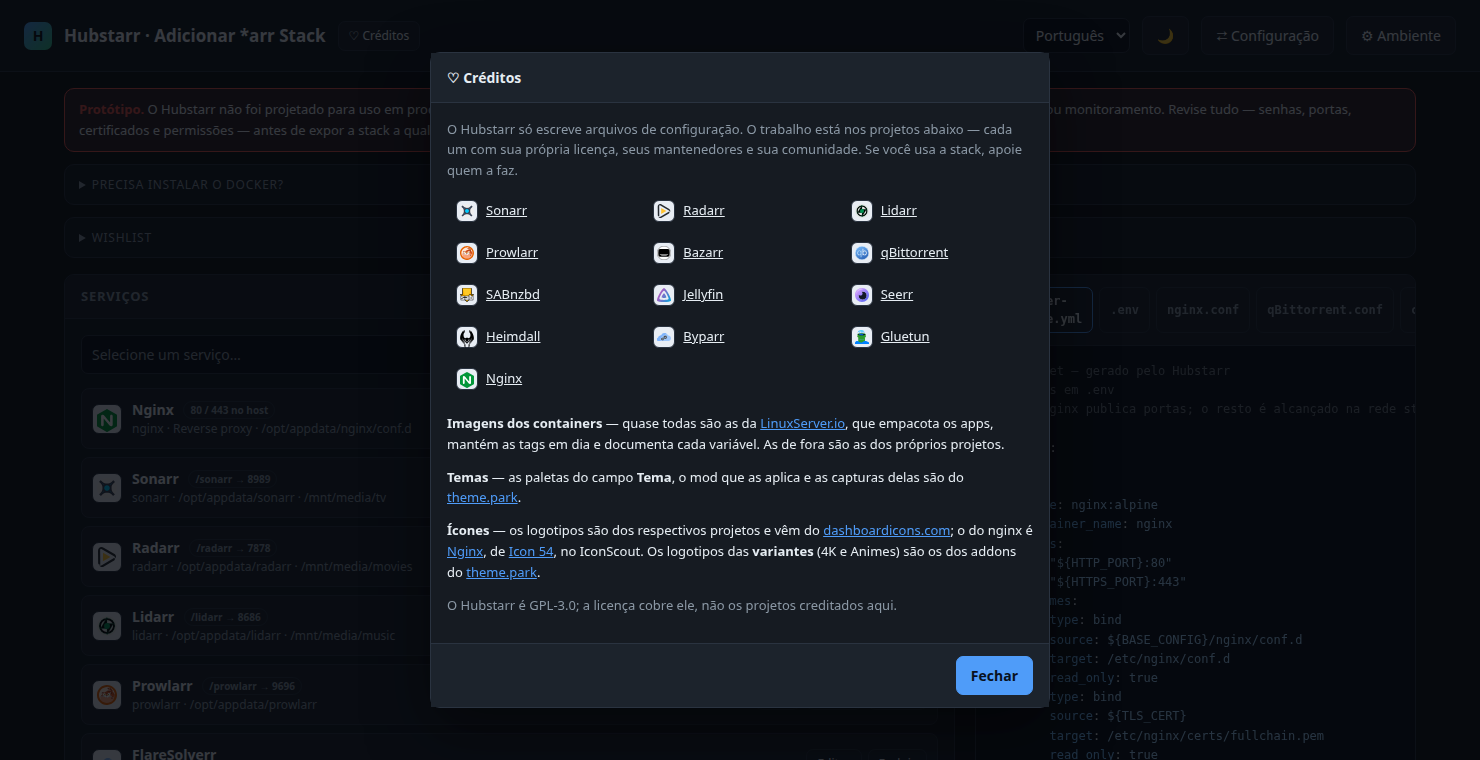
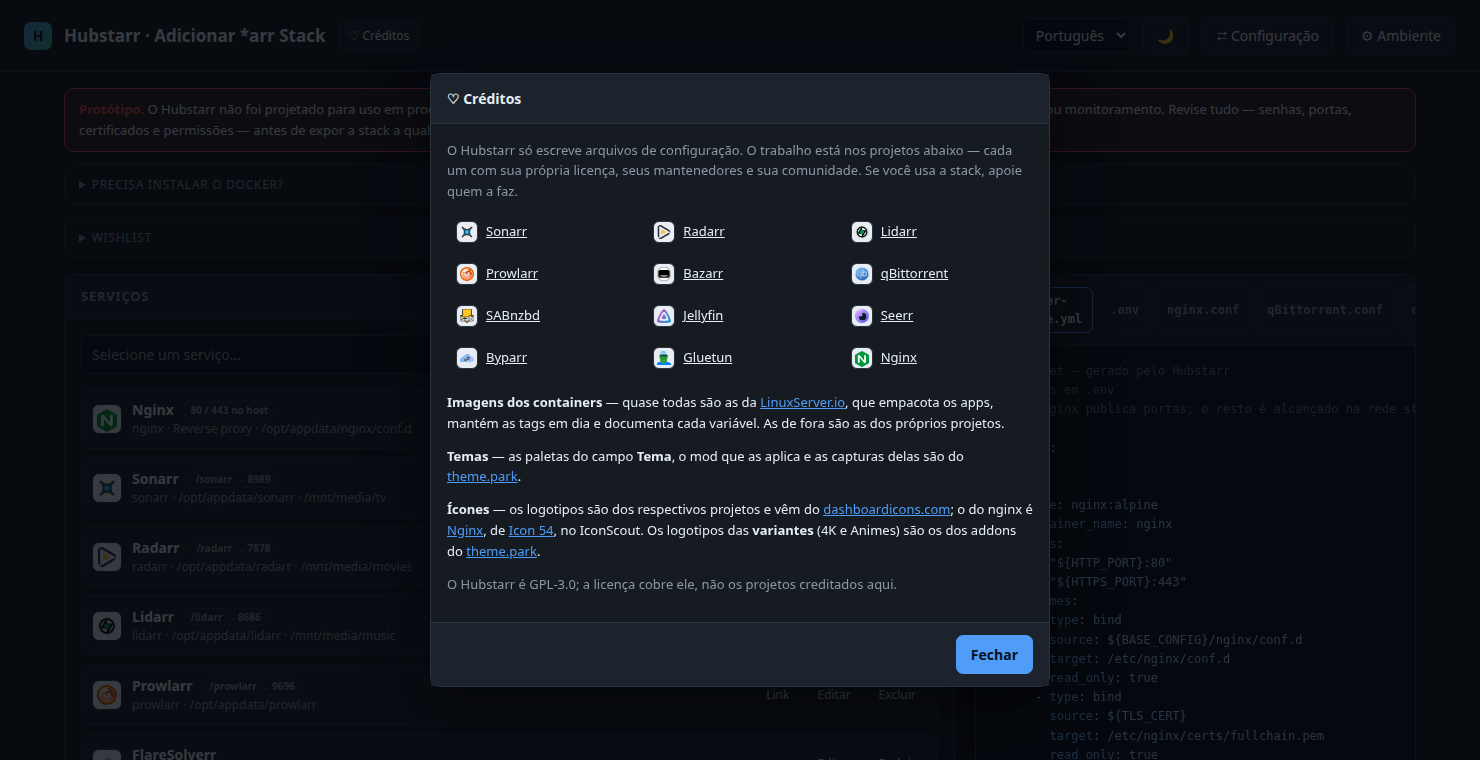
Tira o Heimdall do catálogo
Com ele sai a maquinaria de serviço fixo — ROOT_SERVICE, a flag fixed, o
ensureFixed() e o noLink —, que existia só para ele: era o único a nascer
na stack sozinho e a ser servido na raiz.

A stack passa a não ter nada em `location /`: entra-se pelo subpath de
cada app. O nginx continua fixo, que é outra coisa — ele é o proxy.

Claude-Session: https://claude.ai/code/session_01Eb871Fqsz7GGPfnUDp8g5m

Changed region(s): [[0.2797, 0.0605, 0.7149, 0.8171], [0.2797, 0.8171, 0.7149, 0.9382]]

diff --git a/hubstarr.html b/hubstarr.html
@@ -929,7 +929,6 @@ const I18N = {
   'd.sabnzbd':'Cliente Usenet',
   'd.jellyfin':'Media server',
   'd.seerr':'Pedidos de mídia',
-  'd.heimdall':'Painel de atalhos',
   'd.flaresolverr':'Bypass Cloudflare',
   'd.gluetun':'Cliente VPN',
 },
@@ -1251,7 +1250,6 @@ const I18N = {
   'd.sabnzbd':'Usenet client',
   'd.jellyfin':'Media server',
   'd.seerr':'Media requests',
-  'd.heimdall':'Application dashboard',
   'd.flaresolverr':'Cloudflare bypass',
   'd.gluetun':'VPN client',
 },
@@ -1573,7 +1571,6 @@ const I18N = {
   'd.sabnzbd':'Cliente Usenet',
   'd.jellyfin':'Servidor multimedia',
   'd.seerr':'Peticiones de contenido',
-  'd.heimdall':'Panel de accesos',
   'd.flaresolverr':'Bypass de Cloudflare',
   'd.gluetun':'Cliente VPN',
 },
@@ -1632,7 +1629,6 @@ const SERVICES = [
   {id:'jellyfin', name:'Jellyfin',  port:8096, img:'lscr.io/linuxserver/jellyfin:latest',  color:'#7b68ee', media:true, mdir:'', hw:true, library:true, tp:true,
    conf:[{host:'config/config/network.xml', target:'/config/config/network.xml', pane:'#outJf', tab:'jf'}], site:'https://jellyfin.org'},
   {id:'seerr',    name:'Seerr',     port:5055, img:'ghcr.io/seerr-team/seerr:latest',      color:'#6d5ef5', subpathFix:true, site:'https://github.com/seerr-team/seerr'},
-  {id:'heimdall', name:'Heimdall',  port:80,   img:'lscr.io/linuxserver/heimdall:latest', color:'#d64b3f', fixed:true, noLink:true, tp:true, site:'https://heimdall.site'},
   {id:'flaresolverr',name:'FlareSolverr',port:8191,img:'ghcr.io/thephaseless/byparr:latest',color:'#ff7f50',noVol:true, internal:true, site:'https://github.com/ThePhaseless/Byparr', credit:'Byparr'},
   {id:'gluetun',  name:'Gluetun',   port:8000, img:'qmcgaw/gluetun:latest',                color:'#8b98a5', noVol:true, internal:true, vpnCfg:true, site:'https://github.com/qdm12/gluetun'},
 ];
@@ -1717,7 +1713,6 @@ const randKey = ()=> Array.from(crypto.getRandomValues(new Uint8Array(16)))
   .map(b=>b.toString(16).padStart(2,'0')).join('');
 
 // serviço que atende na raiz do proxy, em vez de um subpath próprio
-const ROOT_SERVICE = 'heimdall';
 
 const URLBASE_ENV = {sonarr:'SONARR__SERVER__URLBASE', radarr:'RADARR__SERVER__URLBASE',
                      lidarr:'LIDARR__SERVER__URLBASE', prowlarr:'PROWLARR__SERVER__URLBASE'};
@@ -1736,7 +1731,6 @@ const ICONS = {
[6 lines of base64/hex data omitted]
   /* Variantes do tema: o logotipo que cada addon do theme.park põe no app,
@@ -1829,13 +1823,6 @@ let added = [];
 
 /* Serviço fixo entra sozinho e não sai: o painel de atalhos é a porta da
    stack, como o nginx é a entrada dela. Fora do combobox e sem "Excluir". */
-const isFixed = id => !!svc(id).fixed;
-function ensureFixed(){
-  SERVICES.filter(s=>s.fixed).forEach(s=>{
-    // entra sozinho, então é aqui que ele ganha a linha dele no banco
-    if(!has(s.id)){ const a = defCfg(s.id); added.unshift(a); putInstance(a); }
-  });
-}
 let picked = null;   // id selecionado no combobox
 let editing = null;  // key da instância em edição (null = adicionando)
 let autoData = '';   // subpasta que o modal sugeriu sozinho, enquanto ninguém a editou
@@ -1850,7 +1837,7 @@ const slug = t => (t||'').normalize('NFD').replace(/[\u0300-\u036f]/g,'')
   .replace(/^-+|-+$/g,'');
 const cname = a => slug(a.title) || a.id;   // container_name / service key / pasta
 // caminho no nginx: subpath próprio, ou a raiz para o painel de atalhos
-const route = a => a.id===ROOT_SERVICE ? '/' : '/'+cname(a);
+const route = a => '/'+cname(a);
 // endereço pelo qual o serviço vai ser acessado, passando pelo proxy;
 // a porta só aparece quando não é a padrão do esquema
 const hostPort = ()=> DEFAULTS.tls ? DEFAULTS.https : DEFAULTS.http;
@@ -1946,7 +1933,7 @@ const defCfg = id => ({id, title:svc(id).name, hw:'cpu', tpv:'std', tpt:TP_THEME
 
 /* ---------- combobox ---------- */
 function renderCombo(){
-  $('#comboList').innerHTML = SERVICES.filter(s=>!s.fixed).map(s=>`
+  $('#comboList').innerHTML = SERVICES.map(s=>`
     <div class="opt ${locked(s.id)?'dis':''}" data-id="${s.id}">
       ${icoHtml(s,'sm')}
       <span><span class="nm">${s.name}</span> <span class="ds">${sdesc(s.id)}</span></span>
@@ -2062,15 +2049,14 @@ function renderItems(){
         <div class="ds">${cname(a)}${(a.title && a.title!==s.name)?' ('+s.name+')':''}${s.noVol?' · '+sdesc(s.id):' · '+cfgReal(a)}${s.media&&!s.noVol?' · '+dataReal(a):''}</div>
       </div>
       <div class="acts">
-        ${(s.internal || s.noLink) ? '' : `<a class="btn${linkOn(cname(a))?'':' off'}"
+        ${s.internal ? '' : `<a class="btn${linkOn(cname(a))?'':' off'}"
           ${linkOn(cname(a))?`href="${attr(url(a))}"`:'aria-disabled="true"'}
           data-link="${attr(cname(a))}" data-url="${attr(url(a))}"
           target="_blank" rel="noopener noreferrer"
           title="${attr(linkOn(cname(a)) ? t('btn.linkTitle', url(a)) : t('btn.linkOff'))}"
           >${t('btn.link')}</a>`}
         <button class="sm" data-act="edit">${t('btn.edit')}</button>
-        ${s.fixed ? `<span class="hint">${t('items.fixed')}</span>`
-                  : `<button class="sm danger" data-act="del">${t('btn.del')}</button>`}
+        <button class="sm danger" data-act="del">${t('btn.del')}</button>
       </div>
     </div>`;
   }).join('') : `<div class="empty">${t('items.empty')}</div>`);
@@ -2104,7 +2090,7 @@ $('#clear').onclick = e=>{
     return;
   }
   clearArmed = false;
-  added = []; ensureFixed(); picked = null;
+  added = []; picked = null;
   renderItems(); renderCombo(); render();
 };
 
@@ -3548,7 +3534,7 @@ function delInstance(key){
 
 /* Guarda no servidor sem atrapalhar a digitação: um PUT depois que ela para.
    A lista de chaves vai junto porque nem toda mudança no `added` passa pelo
-   modal — o gluetun entra sozinho, o Heimdall é reposto, o "Limpar" esvazia
+   modal — o gluetun e o flaresolverr entram sozinhos, o "Limpar" esvazia
    tudo —, e é ela que acerta a ordem e apaga do banco o que saiu. */
 let saveT = 0;
 function saveSettings(){
@@ -3565,14 +3551,13 @@ function applyState(s){
   added = s.added;
   if(s.defaults) Object.assign(DEFAULTS, s.defaults);
   if(s.config)   Object.assign(CONFIG, s.config);
-  ensureFixed();
   return true;
 }
 
 /* ---------- a stack guardada ---------- */
 
 /* Carrega a stack: o que vier do banco entra inteiro, e o banco vazio começa
-   assim mesmo — só com o serviço fixo, como uma página nova. */
+   com a lista vazia, como uma página nova. */
 async function openStack(){
   loading = true;
   added = [];
@@ -3580,10 +3565,7 @@ async function openStack(){
     const r = await api('state');
     if(r.status === 200) applyState(await r.json());
   }catch(e){}
-  // o `ensureFixed()` só depois de sair do carregamento: num banco ainda
-  // vazio, é ele que grava a linha do serviço fixo
   loading = false;
-  ensureFixed();
   applyI18n(); renderCombo(); renderItems(); render();
   paintStatus(); pollStatus();
 }
@@ -3745,7 +3727,6 @@ async function pollStatus(){
   }catch(e){ /* servidor caiu: os pontos ficam como estavam */ }
 }
 
-ensureFixed();
 applyI18n(); renderCombo(); renderItems(); render();
 refreshQbitHash();
 detectServer();

diff --git a/backend/src/store/instance.rs b/backend/src/store/instance.rs
@@ -6,8 +6,8 @@
    não uma linha nova.
 
    Cada adicionar, editar ou excluir mexe numa linha só; o `reconcile()` é a
-   rede de segurança para o que não passa pelo modal — o gluetun que entra
-   sozinho, o Heimdall que é reposto, o "Limpar" que esvazia tudo. */
+   rede de segurança para o que não passa pelo modal — o gluetun e o
+   flaresolverr que entram sozinhos, o "Limpar" que esvazia tudo. */
 
 use rusqlite::params;
 use serde::Deserialize;

diff --git a/README.es.md b/README.es.md
@@ -27,7 +27,7 @@ sigue en el botón de arriba.
 El combobox lista los servicios disponibles con sus logotipos y puertos por
 defecto:
 
-![El combobox abierto, mostrando los doce servicios disponibles](docs/services.png)
+![El combobox abierto, mostrando los once servicios disponibles](docs/services.png)
 
 Y el campo **Tema** muestra la captura de la paleta elegida sin salir de la página:
 
@@ -66,7 +66,7 @@ Y el campo **Tema** muestra la captura de la paleta elegida sin salir de la pág
   `devices: /dev/dri:/dev/dri`; NVIDIA, la reserva de GPU en `deploy` y las
   variables `NVIDIA_VISIBLE_DEVICES` / `NVIDIA_DRIVER_CAPABILITIES`.
 - **Tema de theme.park**: los servicios con imagen de linuxserver — Sonarr,
-  Radarr, Lidarr, Prowlarr, Bazarr, qBittorrent, SABnzbd, Jellyfin y Heimdall —
+  Radarr, Lidarr, Prowlarr, Bazarr, qBittorrent, SABnzbd y Jellyfin —
   salen con `DOCKER_MODS=ghcr.io/themepark-dev/theme.park:<app>`, el mod que
   aplica el tema en su interfaz. En Sonarr y Radarr el modal trae además un
   campo **Variante**, que se vuelve `TP_ADDON`: *Predeterminado* usa el addon
@@ -268,10 +268,10 @@ conflicto posible.
 | ------------ | -------------- | ------------ | -------------- |
 | Sonarr       | `8989`         | Jellyfin     | `8096`         |
 | Radarr       | `7878`         | Seerr        | `5055`         |
-| Lidarr       | `8686`         | Heimdall     | `80`           |
-| Prowlarr     | `9696`         | FlareSolverr | `8191`         |
-| Bazarr       | `6767`         | Gluetun      | `8000`         |
-| qBittorrent  | `8181`         | Nginx        | `80` / `443`   |
+| Lidarr       | `8686`         | FlareSolverr | `8191`         |
+| Prowlarr     | `9696`         | Gluetun      | `8000`         |
+| Bazarr       | `6767`         | Nginx        | `80` / `443`   |
+| qBittorrent  | `8181`         |              |                |
 | SABnzbd      | `8080`         |              |                |
 
 Es ese puerto el que aparece en la lista, junto al subpath, y el que usa el
@@ -284,9 +284,7 @@ publicados en el host salen de su propio modal.
 ## Reverse proxy
 
 nginx es fijo y obligatorio: siempre entra en la stack, no aparece en el
-combobox y no se puede eliminar. Heimdall también entra solo — es el panel de
-accesos que se queda en la raíz —, pero ese sí se puede editar; solo no sale de
-la lista. Es el único contenedor que publica puertos en
+combobox y no se puede eliminar. Es el único contenedor que publica puertos en
 el host — todos los demás se quedan solo en la red `starrnet`, alcanzados por
 nginx en `nombre-del-contenedor:puerto-interno`. Lo que se enruta por la VPN
 responde en `gluetun`, que es quien tiene la red.
@@ -298,10 +296,10 @@ dentro del contenedor nginx sigue escuchando en 80 y 443. Los enlaces copiados
 y la redirección al https ya llevan el puerto elegido.
 
 La pestaña **nginx.conf** genera la configuración correspondiente, enrutando
-por subpath (`/sonarr`, `/radarr`…), un `location` por servicio. Heimdall es la
-excepción: como panel de accesos, se queda en la raíz (`location /`). El
-archivo se monta en `${BASE_CONFIG}/nginx/conf.d` y cada app necesita su *base
-URL* igual a su subpath.
+por subpath (`/sonarr`, `/radarr`…), un `location` por servicio. El archivo se
+monta en `${BASE_CONFIG}/nginx/conf.d` y cada app necesita su *base URL* igual a
+su subpath. Ningún servicio se queda en la raíz: la `/` de la stack no tiene
+`location`, así que se entra por el subpath de cada app.
 
 No todo servicio se vuelve ruta: `gluetun` y FlareSolverr solo hablan con los
 otros contenedores, así que no reciben `location` ni botón de enlace — Prowlarr

diff --git a/README.en.md b/README.en.md
@@ -25,7 +25,7 @@ closed, it is still behind the button at the top.
 
 The combobox lists the available services with their logos and default ports:
 
-![The open combobox, showing the twelve available services](docs/services.png)
+![The open combobox, showing the eleven available services](docs/services.png)
 
 And the **Theme** field shows the chosen palette's screenshot without leaving the page:
 
@@ -63,7 +63,7 @@ And the **Theme** field shows the chosen palette's screenshot without leaving th
   `devices: /dev/dri:/dev/dri`; NVIDIA gets the GPU reservation under `deploy`
   plus the `NVIDIA_VISIBLE_DEVICES` / `NVIDIA_DRIVER_CAPABILITIES` variables.
 - **theme.park theme**: services on linuxserver images — Sonarr, Radarr,
-  Lidarr, Prowlarr, Bazarr, qBittorrent, SABnzbd, Jellyfin and Heimdall — come
+  Lidarr, Prowlarr, Bazarr, qBittorrent, SABnzbd and Jellyfin — come
   out with `DOCKER_MODS=ghcr.io/themepark-dev/theme.park:<app>`, the mod that
   themes their interface. Sonarr and Radarr also get a **Variant** field in the
   modal, which becomes `TP_ADDON`: *Default* uses the darker addon
@@ -263,10 +263,10 @@ to worry about.
 | ------------ | ------------- | ------------ | ------------- |
 | Sonarr       | `8989`        | Jellyfin     | `8096`        |
 | Radarr       | `7878`        | Seerr        | `5055`        |
-| Lidarr       | `8686`        | Heimdall     | `80`          |
-| Prowlarr     | `9696`        | FlareSolverr | `8191`        |
-| Bazarr       | `6767`        | Gluetun      | `8000`        |
-| qBittorrent  | `8181`        | Nginx        | `80` / `443`  |
+| Lidarr       | `8686`        | FlareSolverr | `8191`        |
+| Prowlarr     | `9696`        | Gluetun      | `8000`        |
+| Bazarr       | `6767`        | Nginx        | `80` / `443`  |
+| qBittorrent  | `8181`        |              |               |
 | SABnzbd      | `8080`        |              |               |
 
 This is the port shown in the list next to the subpath, and the one nginx
@@ -279,9 +279,7 @@ container — the ones published on the host come from its own modal.
 ## Reverse proxy
 
 nginx is fixed and mandatory: it is always in the stack, never shows up in the
-combobox and cannot be removed. Heimdall comes in on its own too — it is the
-dashboard sitting at the root — but that one can be edited; it just cannot be
-removed from the list. It is the only container publishing ports on
+combobox and cannot be removed. It is the only container publishing ports on
 the host — everything else stays on the `starrnet` network, reached by nginx at
 `container-name:internal-port`. Whatever routes through the VPN answers at
 `gluetun`, which owns the network.
@@ -293,10 +291,10 @@ the container nginx keeps listening on 80 and 443. The copied links and the
 redirect to https already carry the chosen port.
 
 The **nginx.conf** tab generates the matching configuration, routing by subpath
-(`/sonarr`, `/radarr`…), one `location` per service. Heimdall is the exception:
-as the dashboard, it sits at the root (`location /`). The file is mounted at
+(`/sonarr`, `/radarr`…), one `location` per service. The file is mounted at
 `${BASE_CONFIG}/nginx/conf.d`, and each app needs its *base URL* to match its
-subpath.
+subpath. No service sits at the root: the stack's `/` has no `location`, so it
+is through each app's subpath that you get in.
 
 Not every service becomes a route: `gluetun` and FlareSolverr only talk to the
 other containers, so they get no `location` and no link button — Prowlarr

diff --git a/README.md b/README.md
@@ -25,7 +25,7 @@ continua no botão do topo.
 
 O combobox lista os serviços disponíveis com seus logotipos e portas padrão:
 
-![O combobox aberto, mostrando os doze serviços disponíveis](docs/services.png)
+![O combobox aberto, mostrando os onze serviços disponíveis](docs/services.png)
 
 E o campo **Tema** mostra a captura da paleta escolhida sem sair da página:
 
@@ -62,7 +62,7 @@ E o campo **Tema** mostra a captura da paleta escolhida sem sair da página:
   `devices: /dev/dri:/dev/dri`; NVIDIA, a reserva de GPU em `deploy` e as
   variáveis `NVIDIA_VISIBLE_DEVICES` / `NVIDIA_DRIVER_CAPABILITIES`.
 - **Tema do theme.park**: os serviços de imagem do linuxserver — Sonarr,
-  Radarr, Lidarr, Prowlarr, Bazarr, qBittorrent, SABnzbd, Jellyfin e Heimdall —
+  Radarr, Lidarr, Prowlarr, Bazarr, qBittorrent, SABnzbd e Jellyfin —
   saem com `DOCKER_MODS=ghcr.io/themepark-dev/theme.park:<app>`, o mod que
   aplica o tema na interface deles. No Sonarr e no Radarr o modal ainda traz um
   campo **Variante**, que vira `TP_ADDON`: *Padrão* usa o addon escuro
@@ -265,10 +265,10 @@ possível.
 | ------------ | ------------- | ------------ | ------------- |
 | Sonarr       | `8989`        | Jellyfin     | `8096`        |
 | Radarr       | `7878`        | Seerr        | `5055`        |
-| Lidarr       | `8686`        | Heimdall     | `80`          |
-| Prowlarr     | `9696`        | FlareSolverr | `8191`        |
-| Bazarr       | `6767`        | Gluetun      | `8000`        |
-| qBittorrent  | `8181`        | Nginx        | `80` / `443`  |
+| Lidarr       | `8686`        | FlareSolverr | `8191`        |
+| Prowlarr     | `9696`        | Gluetun      | `8000`        |
+| Bazarr       | `6767`        | Nginx        | `80` / `443`  |
+| qBittorrent  | `8181`        |              |               |
 | SABnzbd      | `8080`        |              |               |
 
 É essa porta que aparece na lista, ao lado do subpath, e que o `proxy_pass` do
@@ -280,9 +280,7 @@ as de dentro do container — as publicadas no host saem do modal dele.
 ## Reverse proxy
 
 O nginx é fixo e obrigatório: entra sempre na stack, não aparece no combobox e
-não pode ser removido. O Heimdall também entra sozinho — é o painel de
-atalhos que fica na raiz —, mas esse dá para editar; só não sai da lista.
- É o único container que publica portas no host — todos
+não pode ser removido. É o único container que publica portas no host — todos
 os outros ficam só na rede `starrnet`, alcançados pelo nginx por
 `nome-do-container:porta-interna`. Quem roteia pela VPN responde no `gluetun`,
 que é quem detém a rede.
@@ -294,10 +292,10 @@ container o nginx continua ouvindo em 80 e 443. Os links copiados e o
 redirecionamento para o https já levam a porta escolhida.
 
 A aba **nginx.conf** gera a configuração correspondente, roteando por subpath
-(`/sonarr`, `/radarr`…), um `location` por serviço. O Heimdall é a exceção:
-como painel de atalhos, fica na raiz (`location /`). O arquivo é montado em
+(`/sonarr`, `/radarr`…), um `location` por serviço. O arquivo é montado em
 `${BASE_CONFIG}/nginx/conf.d` e cada app precisa da sua *base URL* igual ao
-subpath.
+subpath. Nenhum serviço fica na raiz: a `/` da stack não tem `location`, então
+é pelo subpath de cada app que se entra.
 
 Nem todo serviço vira rota: o `gluetun` e o FlareSolverr só conversam com os
 outros containers, então não ganham `location` nem botão de link — o Prowlarr

diff --git a/CLAUDE.md b/CLAUDE.md
@@ -36,8 +36,7 @@ O script é uma sequência de seções marcadas por comentários `/* ---------- 
    downloads inteira), `dlClient`, `vpn`, `hw` (Jellyfin), `library` (Jellyfin:
    monta a base e mais as pastas que ficaram fora dela), `solver` (Prowlarr;
    ver abaixo), `internal` (gluetun e FlareSolverr: sem rota no nginx e sem
-   botão de link), `noLink` (Heimdall: sem botão de link, mas com rota — ele é a
-   raiz, o link seria o endereço da stack), `subpathFix` (Seerr: o `location`
+   botão de link), `subpathFix` (Seerr: o `location`
    dele tira o prefixo e reescreve o que volta), `vpnCfg` (gluetun: as
    credenciais da VPN no modal dele),
    `webAuth` + `conf` (qBittorrent: usuário/senha/API key no modal dele e a
@@ -50,9 +49,7 @@ O script é uma sequência de seções marcadas por comentários `/* ---------- 
    `ICONS` + as strings `d.<id>` no `I18N`.
 3. **Constantes de convenção** — `STACK`/`NETWORK` (`starrnet`), `NGINX`
    (reverse proxy fixo, fora do combobox, único que publica portas),
-   `ROOT_SERVICE` (Heimdall, servido em `/`; com `fixed:true`, o
-   `ensureFixed()` o repõe no `added`, e ele fica fora do combobox e sem
-   "Excluir"), `MULTI` (serviços com múltiplas instâncias), e os mapas de
+   `MULTI` (serviços com múltiplas instâncias), e os mapas de
    variáveis de ambiente `INSTANCE_ENV`, `URLBASE_ENV`, `APIKEY_ENV`.
 4. **Estado** — quatro globais mutáveis: `added` (instâncias,
    `{id,title,data,abs,libs,vpn,hw,solver}` — `abs` só quando o caminho da mídia
@@ -184,7 +181,7 @@ handler de `#mSave`.
   O logotipo também segue o nome, não a imagem: o do Byparr é um cookie que aos
   20px da lista vira um ponto laranja, e já foi tentado e revertido.
 - **Logotipo sempre sobre fundo claro**: os SVGs do dashboardicons são
-  desenhados para isso e alguns são pretos (Heimdall, SABnzbd, Bazarr), então
+  desenhados para isso e alguns são pretos (SABnzbd, Bazarr), então
   `--ico-bg` é claro nos dois temas. Não o amarre ao `--panel`. O do nginx é a
   exceção de origem — vem do IconScout (Icon 54) e por isso está creditado na
   seção de licença dos READMEs; ícone de outra fonte entra com o crédito junto.
